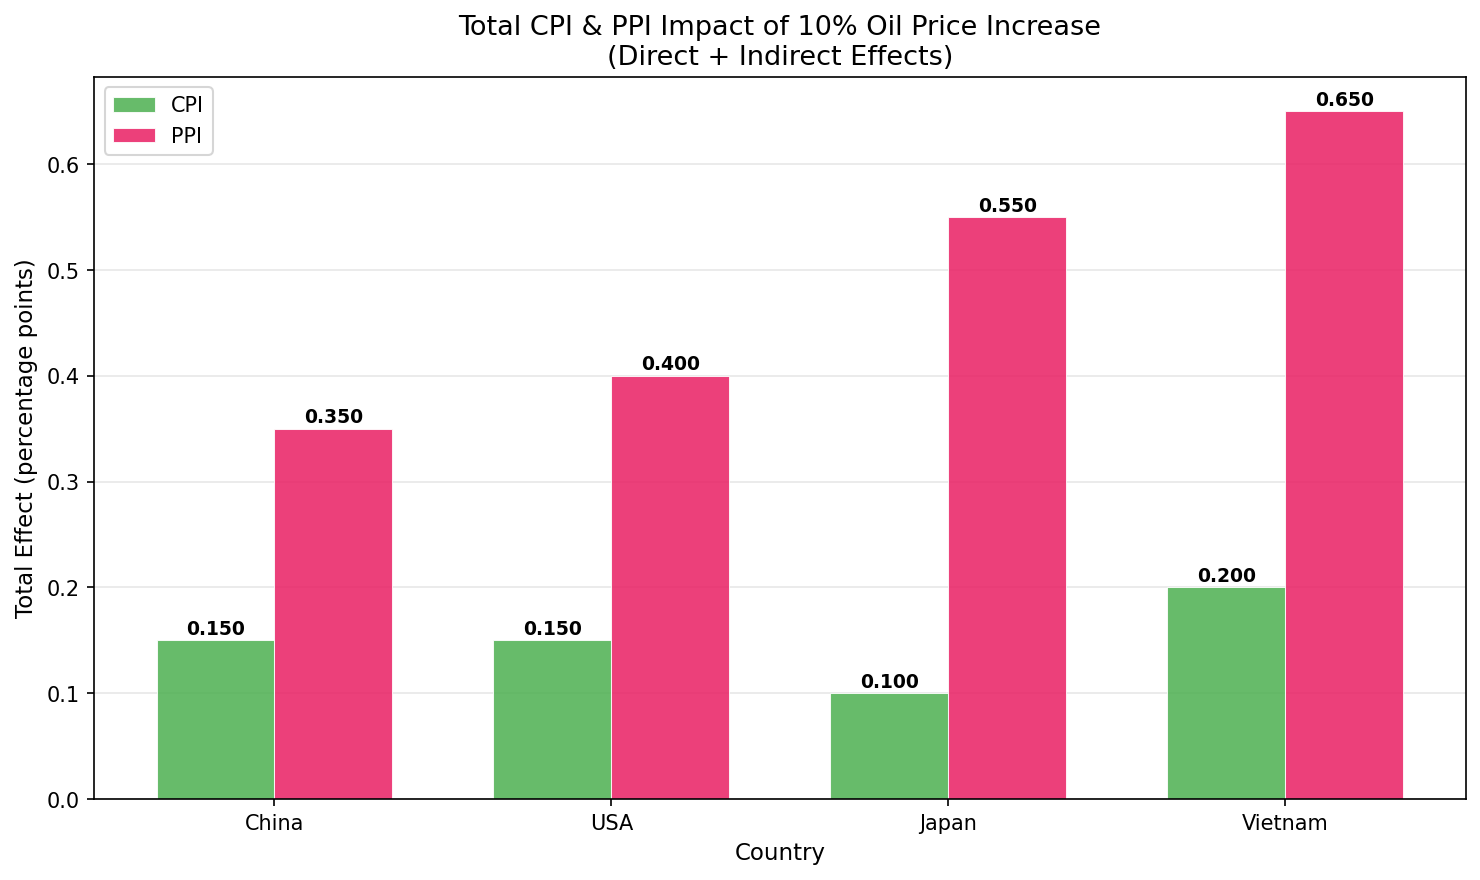
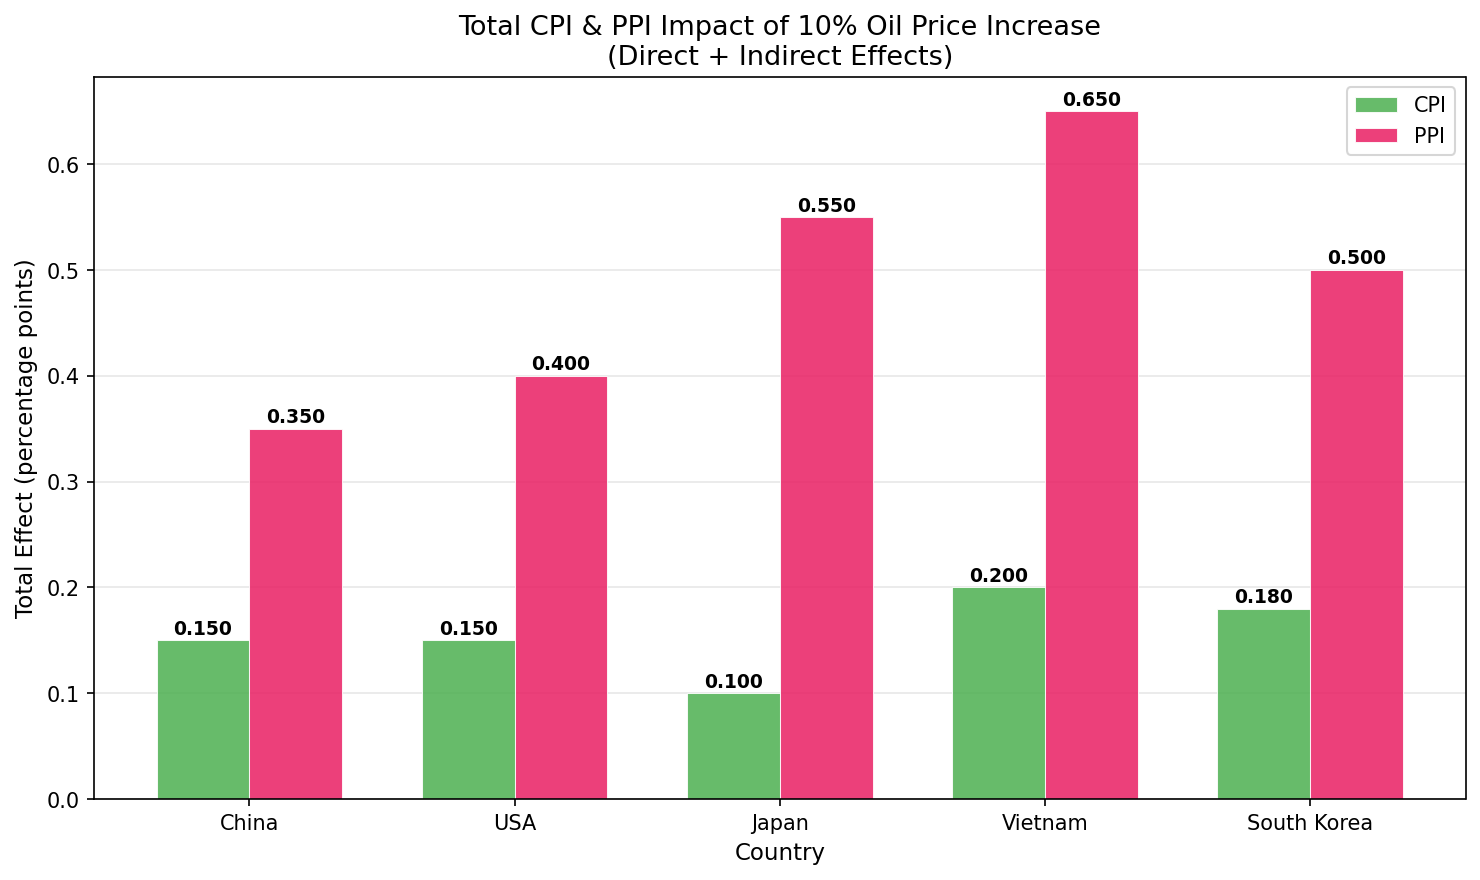
Add South Korea to oil price CPI/PPI impact analysis
South Korea results (per 10% oil price increase):
- CPI: +0.18pp (Direct: 0.12pp / 67%, Indirect: 0.06pp / 33%)
- PPI: +0.50pp (Direct: 0.35pp / 70%, Indirect: 0.15pp / 30%)

Key Korea-specific factors:
- Highest oil intensity in OECD (5.63 bbl per $10K GDP)
- Renewable energy only 9% (vs OECD avg 33%)
- 70%+ oil imports through Strait of Hormuz
- CPI petroleum weight ~5.2% (2022 rebase by Statistics Korea)
- Manufacturing-heavy economy amplifies PPI sensitivity

Sources: KDI (2024), Hyundai Research Institute (2024),
J. Asian Economics Vol.96 (2025), Statistics Korea (2023),
Citibank (2026)

Changed region(s): [[0.1243, 0.092, 0.9946, 0.9511], [0.0622, 0.092, 0.1554, 0.1841]]

diff --git a/oil_price_cpi_ppi_analysis.py b/oil_price_cpi_ppi_analysis.py
@@ -1,11 +1,11 @@
 """
 Oil Price Impact on CPI and PPI: Direct and Indirect Effects
 =============================================================
-Analysis for China, USA, Japan, and Vietnam
+Analysis for China, USA, Japan, Vietnam, and South Korea
 
 This script calculates the direct and indirect effects of a 10% oil price
 increase on CPI (Consumer Price Index) and PPI (Producer Price Index) for
-four countries, using parameters calibrated from 2023-2026 academic research
+five countries, using parameters calibrated from 2023-2026 academic research
 and official statistical data.
 
 Methodology:
@@ -32,6 +32,10 @@ Key References (2023+):
     impacts from energy price shocks in Southeast Asia"
 [8] Fed FEDS Notes (2024.08): "Oil Price Shocks and Inflation in a DSGE
     Model of the Global Economy"
+[9] KDI (2024): "최근 유가 상승의 국내 경제 파급효과"
+[10] 현대경제연구원 (2024): 유가 100달러 시 물가 1.1%p 상승 분석
+[11] Journal of Asian Economics (2025, Vol.96): "The inflationary impact of
+     oil price shock in Korea: The role of inflation expectations"
 """
 
 import numpy as np
@@ -58,6 +62,16 @@ plt.rcParams.update({
 })
 
 plt.rcParams['font.family'] = ['DejaVu Sans', 'sans-serif']
+
+COUNTRY_ORDER = ["China", "USA", "Japan", "Vietnam", "South Korea"]
+COUNTRY_COLORS = {
+    'China': '#E53935', 'USA': '#1E88E5', 'Japan': '#43A047',
+    'Vietnam': '#FB8C00', 'South Korea': '#8E24AA',
+}
+COUNTRY_MARKERS = {
+    'China': 'o', 'USA': 's', 'Japan': '^',
+    'Vietnam': 'D', 'South Korea': 'P',
+}
 
 
 # ============================================================================
@@ -170,6 +184,39 @@ COUNTRIES = {
             "RMIT: Food & catering 33.56% of CPI, highly oil-sensitive",
             "EAP (2024): Southeast Asia energy price shock GTAP-E analysis",
             "GSO Vietnam: Logistics costs 10-15% of production costs",
+        ],
+    },
+    "South Korea": {
+        "cpi": {
+            # Petroleum products (석유류) ~5.2% of CPI (2022 rebase, Statistics Korea)
+            # Gasoline/diesel had largest weight increase in 2023 revision [1]
+            # KDI: oil+43%→CPI+0.5~0.8pp → ~0.15pp per 10% [9]
+            # 현대경제연구원: oil+43%→CPI+1.1pp → ~0.26pp per 10% [10]
+            # Weighted estimate: ~0.18pp per 10%, direct dominated
+            # Korea has highest oil intensity in OECD (5.63 bbl per $10K GDP)
+            "energy_weight_pct": 5.2,
+            "retail_passthrough": 0.35,
+            "direct_pp_per_10pct": 0.12,
+            "indirect_pp_per_10pct": 0.06,
+            "total_pp_per_10pct": 0.18,
+        },
+        "ppi": {
+            # Coal & petroleum products (석탄및석유제품) ~6% of PPI
+            # Broader energy-related sectors ~13% of PPI (BOK CGPI)
+            # Manufacturing-heavy economy amplifies oil-PPI transmission
+            # BOK WP (2023): global oil shocks have larger PPI than CPI effects
+            "energy_weight_pct": 13.0,
+            "retail_passthrough": 0.50,
+            "direct_pp_per_10pct": 0.35,
+            "indirect_pp_per_10pct": 0.15,
+            "total_pp_per_10pct": 0.50,
+        },
+        "sources": [
+            "Statistics Korea (2023): 2022 rebase - petroleum largest weight increase",
+            "KDI (2024): Oil+43%→CPI+0.5~0.8pp, production cost+0.7%",
+            "현대경제연구원 (2024): Oil $100/bbl→CPI+1.1pp, GDP-0.3pp",
+            "J. Asian Econ. (2025): Inflation expectations amplify oil shocks in Korea",
+            "Korea oil intensity: 5.63 bbl/$10K GDP, highest in OECD",
         ],
     },
 }
@@ -300,7 +347,7 @@ def plot_total_effects_comparison(df_base, save=True):
     fig, ax = plt.subplots(figsize=(10, 6))
 
     pivot = df_base.pivot(index='Country', columns='Index', values='Total Effect (pp)')
-    pivot = pivot.reindex(["China", "USA", "Japan", "Vietnam"])
+    pivot = pivot.reindex(COUNTRY_ORDER)
 
     x = np.arange(len(pivot.index))
     width = 0.35
@@ -339,18 +386,15 @@ def plot_scenario_analysis(df_scenarios, save=True):
     """Line charts showing CPI and PPI impacts under different oil price scenarios."""
     fig, axes = plt.subplots(1, 2, figsize=(14, 6))
 
-    colors = {'China': '#E53935', 'USA': '#1E88E5', 'Japan': '#43A047', 'Vietnam': '#FB8C00'}
-    markers = {'China': 'o', 'USA': 's', 'Japan': '^', 'Vietnam': 'D'}
-
     for idx, index_type in enumerate(["CPI", "PPI"]):
         ax = axes[idx]
         subset = df_scenarios[df_scenarios["Index"] == index_type]
 
-        for country in ["China", "USA", "Japan", "Vietnam"]:
+        for country in COUNTRY_ORDER:
             country_data = subset[subset["Country"] == country].sort_values("Oil Change (%)")
             ax.plot(country_data["Oil Change (%)"], country_data["Total Effect (pp)"],
-                    marker=markers[country], label=country, color=colors[country],
-                    linewidth=2, markersize=7)
+                    marker=COUNTRY_MARKERS[country], label=country,
+                    color=COUNTRY_COLORS[country], linewidth=2, markersize=7)
 
         ax.set_xlabel('Oil Price Increase (%)')
         ax.set_ylabel('Total Effect (percentage points)')
@@ -373,7 +417,7 @@ def plot_effect_decomposition_stacked(df_base, save=True):
     for idx, index_type in enumerate(["CPI", "PPI"]):
         ax = axes[idx]
         subset = df_base[df_base["Index"] == index_type].copy()
-        subset = subset.set_index("Country").reindex(["China", "USA", "Japan", "Vietnam"])
+        subset = subset.set_index("Country").reindex(COUNTRY_ORDER)
 
         direct = subset["Direct Effect (pp)"].values
         indirect = subset["Indirect Effect (pp)"].values
@@ -416,11 +460,11 @@ def plot_effect_decomposition_stacked(df_base, save=True):
 
 def plot_direct_share_pie(df_base, save=True):
     """Pie charts showing direct vs indirect share for each country-index pair."""
-    fig, axes = plt.subplots(2, 4, figsize=(16, 8))
+    fig, axes = plt.subplots(2, 5, figsize=(20, 8))
 
     colors_pair = ['#2196F3', '#FF9800']
 
-    for col_idx, country in enumerate(["China", "USA", "Japan", "Vietnam"]):
+    for col_idx, country in enumerate(COUNTRY_ORDER):
         for row_idx, index_type in enumerate(["CPI", "PPI"]):
             ax = axes[row_idx][col_idx]
             row = df_base[(df_base["Country"] == country) & (df_base["Index"] == index_type)].iloc[0]
@@ -460,7 +504,7 @@ def plot_heatmap(df_base, save=True):
     for idx, effect_col in enumerate(["Direct Effect (pp)", "Indirect Effect (pp)", "Total Effect (pp)"]):
         ax = axes[idx]
         pivot = df_base.pivot(index='Country', columns='Index', values=effect_col)
-        pivot = pivot.reindex(["China", "USA", "Japan", "Vietnam"])
+        pivot = pivot.reindex(COUNTRY_ORDER)
 
         sns.heatmap(pivot, annot=True, fmt='.3f', cmap='YlOrRd', ax=ax,
                     linewidths=0.5, linecolor='white',
@@ -485,7 +529,7 @@ def generate_report(df_base, df_scenarios):
     report = []
     report.append("=" * 80)
     report.append("OIL PRICE IMPACT ON CPI AND PPI: DIRECT AND INDIRECT EFFECTS")
-    report.append("Analysis for China, USA, Japan, and Vietnam")
+    report.append("Analysis for China, USA, Japan, Vietnam, and South Korea")
     report.append("Based on 2023-2026 Research and Data")
     report.append("=" * 80)
 
@@ -520,7 +564,7 @@ Parameters are calibrated from the following 2023+ sources:
     report.append("PART 2: BASELINE RESULTS (10% OIL PRICE INCREASE)")
     report.append("=" * 80)
 
-    for country in ["China", "USA", "Japan", "Vietnam"]:
+    for country in COUNTRY_ORDER:
         report.append(f"\n{'─' * 60}")
         report.append(f"  {country}")
         report.append(f"{'─' * 60}")
@@ -564,17 +608,17 @@ Parameters are calibrated from the following 2023+ sources:
         report.append(f"\n  Scenario: {scenario} (Oil price +{oil_chg:.0f}%)")
         report.append(f"  {'Country':<12s} {'CPI Total (pp)':>15s} {'PPI Total (pp)':>15s}")
         report.append(f"  {'─'*42}")
-        for country in ["China", "USA", "Japan", "Vietnam"]:
+        for country in COUNTRY_ORDER:
             cpi_val = subset[(subset["Country"] == country) & (subset["Index"] == "CPI")]["Total Effect (pp)"].iloc[0]
             ppi_val = subset[(subset["Country"] == country) & (subset["Index"] == "PPI")]["Total Effect (pp)"].iloc[0]
-            report.append(f"  {country:<12s} {cpi_val:>+14.4f}  {ppi_val:>+14.4f}")
+            report.append(f"  {country:<14s} {cpi_val:>+14.4f}  {ppi_val:>+14.4f}")
 
     report.append("\n\n" + "=" * 80)
     report.append("PART 5: KEY FINDINGS AND INTERPRETATION")
     report.append("=" * 80)
     report.append("""
 1. PPI SENSITIVITY > CPI SENSITIVITY:
-   Across all four countries, PPI is more sensitive to oil price changes than
+   Across all five countries, PPI is more sensitive to oil price changes than
    CPI. This reflects the higher energy weight in production costs compared
    to consumer baskets, and the incomplete pass-through from producers to
    consumers due to market competition and price stickiness.
@@ -585,28 +629,37 @@ Parameters are calibrated from the following 2023+ sources:
    basket share (33.56%) that amplifies indirect effects through agricultural
    input costs, and (c) heavy reliance on imported refined petroleum.
 
-3. JAPAN'S PPI VULNERABILITY:
-   Despite moderate CPI impact (partly due to government energy subsidies),
-   Japan's PPI is highly sensitive due to near-complete import dependence
-   for oil and high energy intensity in manufacturing.
+3. SOUTH KOREA'S STRUCTURAL VULNERABILITY:
+   South Korea has the highest oil intensity in the OECD (5.63 barrels per
+   $10K GDP) with renewable energy at only 9% (vs OECD avg 33%). CPI impact
+   (+0.18pp per 10% oil) is moderate but PPI impact (+0.50pp) is significant,
+   reflecting its manufacturing-heavy economy. Over 70% of oil imports pass
+   through the Strait of Hormuz, creating geopolitical supply risk.
 
-4. CHINA AND USA SHOW SIMILAR CPI IMPACT:
+4. JAPAN'S PPI VULNERABILITY:
+   Despite the lowest CPI impact (+0.10pp, partly due to government energy
+   subsidies), Japan's PPI is highly sensitive (+0.55pp) due to near-complete
+   import dependence for oil and high energy intensity in manufacturing.
+
+5. CHINA AND USA SHOW SIMILAR CPI IMPACT:
    Both countries show ~0.15 pp CPI increase per 10% oil rise, but through
    different mechanisms: China's lower energy weight is offset by higher
    fuel pass-through (regulated pricing), while the US has higher energy
    weight but broader monetary policy dampening of second-round effects.
 
-5. DIRECT VS INDIRECT DECOMPOSITION:
-   - For CPI: Indirect effects are relatively larger, especially for Vietnam
-     and Japan, reflecting supply chain transmission and food price channels.
-   - For PPI: Direct effects dominate due to the large energy input share
-     in production, with the direct-to-total ratio typically above 60%.
+6. DIRECT VS INDIRECT DECOMPOSITION:
+   - For CPI: Direct effects typically account for 60-80% of total impact.
+     Indirect effects are proportionally largest for Vietnam and Japan (~40%),
+     reflecting supply chain transmission and food price channels.
+   - For PPI: Direct effects dominate (69-75%) due to the large energy input
+     share in production.
 
-6. NON-LINEARITY (from literature):
-   Recent NARDL evidence [Energy, 2024] shows asymmetric effects in China -
-   oil price increases have larger PPI impacts than equivalent decreases.
-   The Fed (2023) finds second-round effects accumulate over 8 quarters,
-   suggesting sustained rather than one-time impacts.
+7. NON-LINEARITY (from literature):
+   - NARDL evidence [Energy, 2024] shows asymmetric effects in China: oil
+     price increases have larger PPI impacts than equivalent decreases.
+   - Korean research [J. Asian Econ., 2025] finds that inflation expectations
+     amplify oil shocks during high-inflation periods.
+   - The Fed (2023) finds second-round effects accumulate over 8 quarters.
 """)
 
     report.append("=" * 80)
@@ -649,6 +702,22 @@ Parameters are calibrated from the following 2023+ sources:
 
 [10] BOJ (2024). Producer Price Index Chain-weighted Weights Update.
      https://www.boj.or.jp/en/statistics/outline/notice_2024/not240116a.htm
+
+[11] KDI (2024). "최근 유가 상승의 국내 경제 파급효과."
+     https://www.kdi.re.kr/share/pressView?bd_no=4052
+
+[12] 현대경제연구원 (2024). "유가 100달러 시 물가 1.1%p 상승 압력."
+     https://biz.heraldcorp.com/article/10685687
+
+[13] Journal of Asian Economics, Vol.96 (2025). "The inflationary impact of
+     oil price shock in Korea: The role of inflation expectations."
+     https://ideas.repec.org/a/eee/asieco/v96y2025ics1049007824001568.html
+
+[14] Statistics Korea (2023). 2022년 기준 소비자물가지수 가중치 개편 결과.
+     https://kostat.go.kr/board.es?act=view&bid=213&list_no=428549
+
+[15] Citibank (2026). Korea GDP/CPI impact from sustained oil price increase.
+     https://en.yna.co.kr/view/AEN20260303003400320
 """)
 
     return "\n".join(report)
